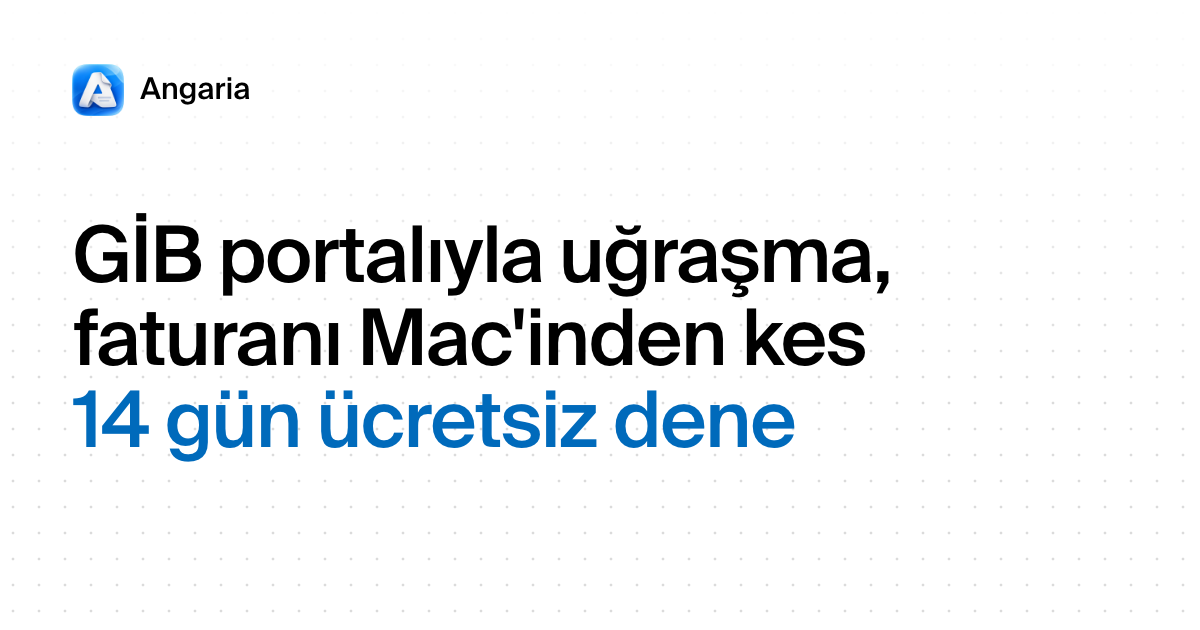
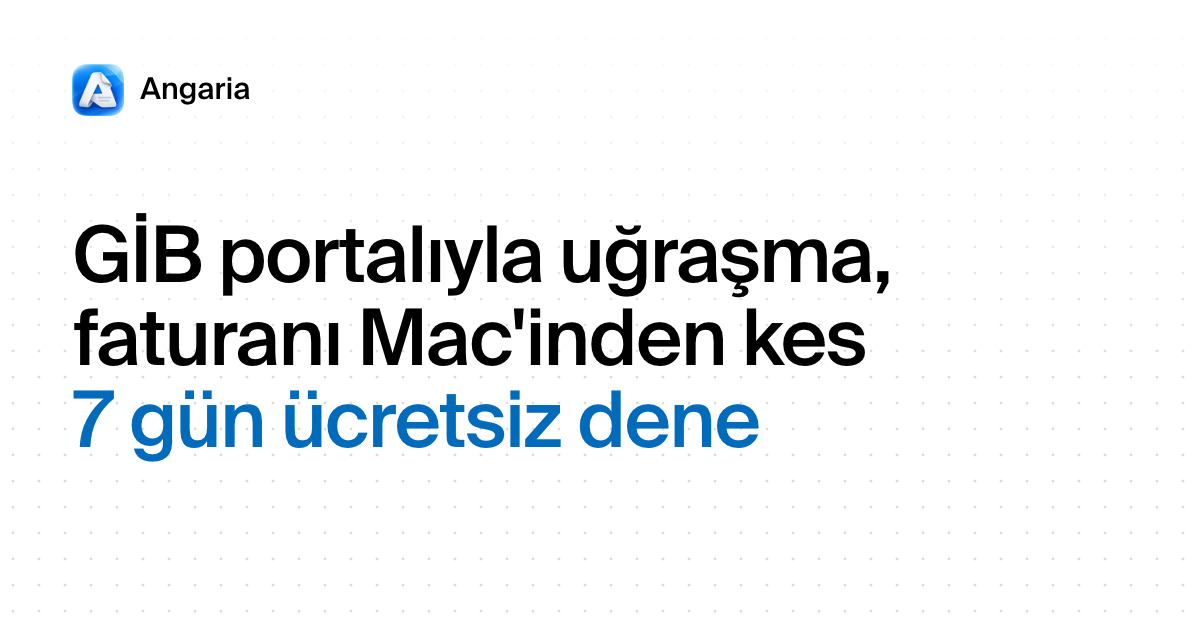
feat(web): 7-day trial that starts at checkout, Vinena Yazılım as publisher
Every trial mention says 7 gün and that the trial starts on the Polar
checkout page (card asked, no charge for 7 days, cancel any time), the share
image included. The terms, the privacy controller and the structured data
name Vinena Yazılım ve Tasarım Ltd. Şti. as publisher and seller.

Changed region(s): [[0.0617, 0.6032, 0.6783, 0.754]]

diff --git a/apps/web/src/components/pricing.test.tsx b/apps/web/src/components/pricing.test.tsx
@@ -10,7 +10,7 @@ vi.mock('../lib/analytics.ts', () => ({ track: vi.fn() }));
 /** A lira amount as the copy writes it: 1.499 TL. */
 const tl = (n: number) => `${new Intl.NumberFormat('tr-TR').format(n)} TL`;
 
-const checkout = () => screen.getByRole('link', { name: '14 gün ücretsiz dene' });
+const checkout = () => screen.getByRole('link', { name: '7 gün ücretsiz dene' });
 
 describe('Pricing', () => {
   test('starts on the yearly plan and its checkout', () => {
@@ -53,13 +53,28 @@ describe('Pricing', () => {
     await waitFor(() => expect(yearly).toHaveFocus());
   });
 
-  test('every price in the copy matches the prices', () => {
+  test('every price and the 7-day trial in the copy match', () => {
     const saving = Math.round((1 - PRICES_TRY.yearly / (PRICES_TRY.monthly * 12)) * 100);
     expect(m.pricing_yearly_amount()).toBe(tl(PRICES_TRY.yearly));
     expect(m.pricing_monthly_amount()).toBe(tl(PRICES_TRY.monthly));
     expect(m.pricing_yearly_saving()).toContain(tl(Math.round(PRICES_TRY.yearly / 12)));
     expect(m.pricing_yearly_saving()).toContain(`%${saving}`);
     expect(m.hero_note()).toContain(tl(PRICES_TRY.yearly));
+    for (const copy of [
+      m.cta_trial(),
+      m.meta_description(),
+      m.hero_note(),
+      m.pricing_trial(),
+      m.pricing_note(),
+      m.faq_price_a(),
+      m.faq_cancel_a(),
+      m.footer_tagline(),
+      m.terms_trial_body(),
+      m.thanks_lead(),
+    ]) {
+      expect(copy).toMatch(/\b7 gün/);
+      expect(copy).not.toContain('14 gün');
+    }
     for (const copy of [m.faq_price_a(), m.terms_subscription_body()]) {
       expect(copy).toContain(tl(PRICES_TRY.yearly));
       expect(copy).toContain(tl(PRICES_TRY.monthly));

diff --git a/apps/web/scripts/render-brand.ts b/apps/web/scripts/render-brand.ts
@@ -3,7 +3,7 @@ import path from 'node:path';
 /**
  * Renders the site's share image, public/og.png (1200x630), in the layout of
  * Agent Caffeine's (caffeinagent.com): the app icon and name at the top, the
- * hero's headline large over two lines with "14 gün ücretsiz dene" in the
+ * hero's headline large over two lines with "7 gün ücretsiz dene" in the
  * brand blue under it. No link and no small print: a share image is read
  * at a glance. Real
  * Suisse Intl Medium; the PNG is a screenshot of a headless Chromium page. The
@@ -45,7 +45,7 @@ body { background: #ffffff; color: #000000; display: flex; flex-direction: colum
 .headline .blue { color: #006abb; }
 </style><div class="dots"></div>
 <div class="brand"><img src="${dataUrl(iconFile, 'image/png')}" alt="">Angaria</div>
-<div class="headline">${first},<br>${second}<br><span class="blue">14 gün ücretsiz dene</span></div>
+<div class="headline">${first},<br>${second}<br><span class="blue">7 gün ücretsiz dene</span></div>
 `;
 
 const browser = await chromium.launch();

diff --git a/apps/web/src/routes/kosullar.tsx b/apps/web/src/routes/kosullar.tsx
@@ -1,7 +1,7 @@
 // TODO(lawyer): these terms are a plain-language draft, not reviewed. Before
 // go-live a lawyer checks them against Turkish consumer law (6502 sayılı Kanun,
 // mesafeli sözleşmeler, cayma hakkı) and Polar's merchant-of-record terms, and
-// fills in the publisher's (Mert Düzgün) legal details and address.
+// fills in the publisher's (Vinena Yazılım ve Tasarım Ltd. Şti.) MERSİS number and address.
 import { createFileRoute } from '@tanstack/react-router';
 import { LegalPage, LegalSection, Paragraph } from '../components/legal.tsx';
 import { SITE_URL } from '../lib/canonical.ts';

diff --git a/apps/web/src/components/cta.tsx b/apps/web/src/components/cta.tsx
@@ -50,7 +50,7 @@ export function DownloadButton({
 }
 
 /**
- * The Polar checkout of one plan. The 14-day trial is part of the subscription,
+ * The Polar checkout of one plan. The 7-day trial is part of the subscription,
  * so trying and buying are the same link. Only the pricing section offers the
  * monthly plan; every other button sells the yearly one.
  */

diff --git a/apps/web/src/lib/config.ts b/apps/web/src/lib/config.ts
@@ -3,7 +3,7 @@ const DEFAULT_DOWNLOAD_URL = 'https://dl.angaria.app/latest/Angaria.dmg';
 
 /**
  * The two ways to pay, one Polar product each in the Angaria org. Both start
- * with the 14-day trial and grant the same license key.
+ * with the 7-day trial and grant the same license key.
  */
 export type Plan = 'monthly' | 'yearly';
 

diff --git a/apps/web/src/routes/index.tsx b/apps/web/src/routes/index.tsx
@@ -63,6 +63,7 @@ const structuredData = () => ({
   name: 'Angaria',
   offers: [offer('yearly', m.pricing_yearly()), offer('monthly', m.pricing_monthly())],
   operatingSystem: 'macOS',
+  publisher: { '@type': 'Organization', name: 'Vinena Yazılım ve Tasarım Ltd. Şti.' },
   url: `${SITE_URL}/`,
 });
 
